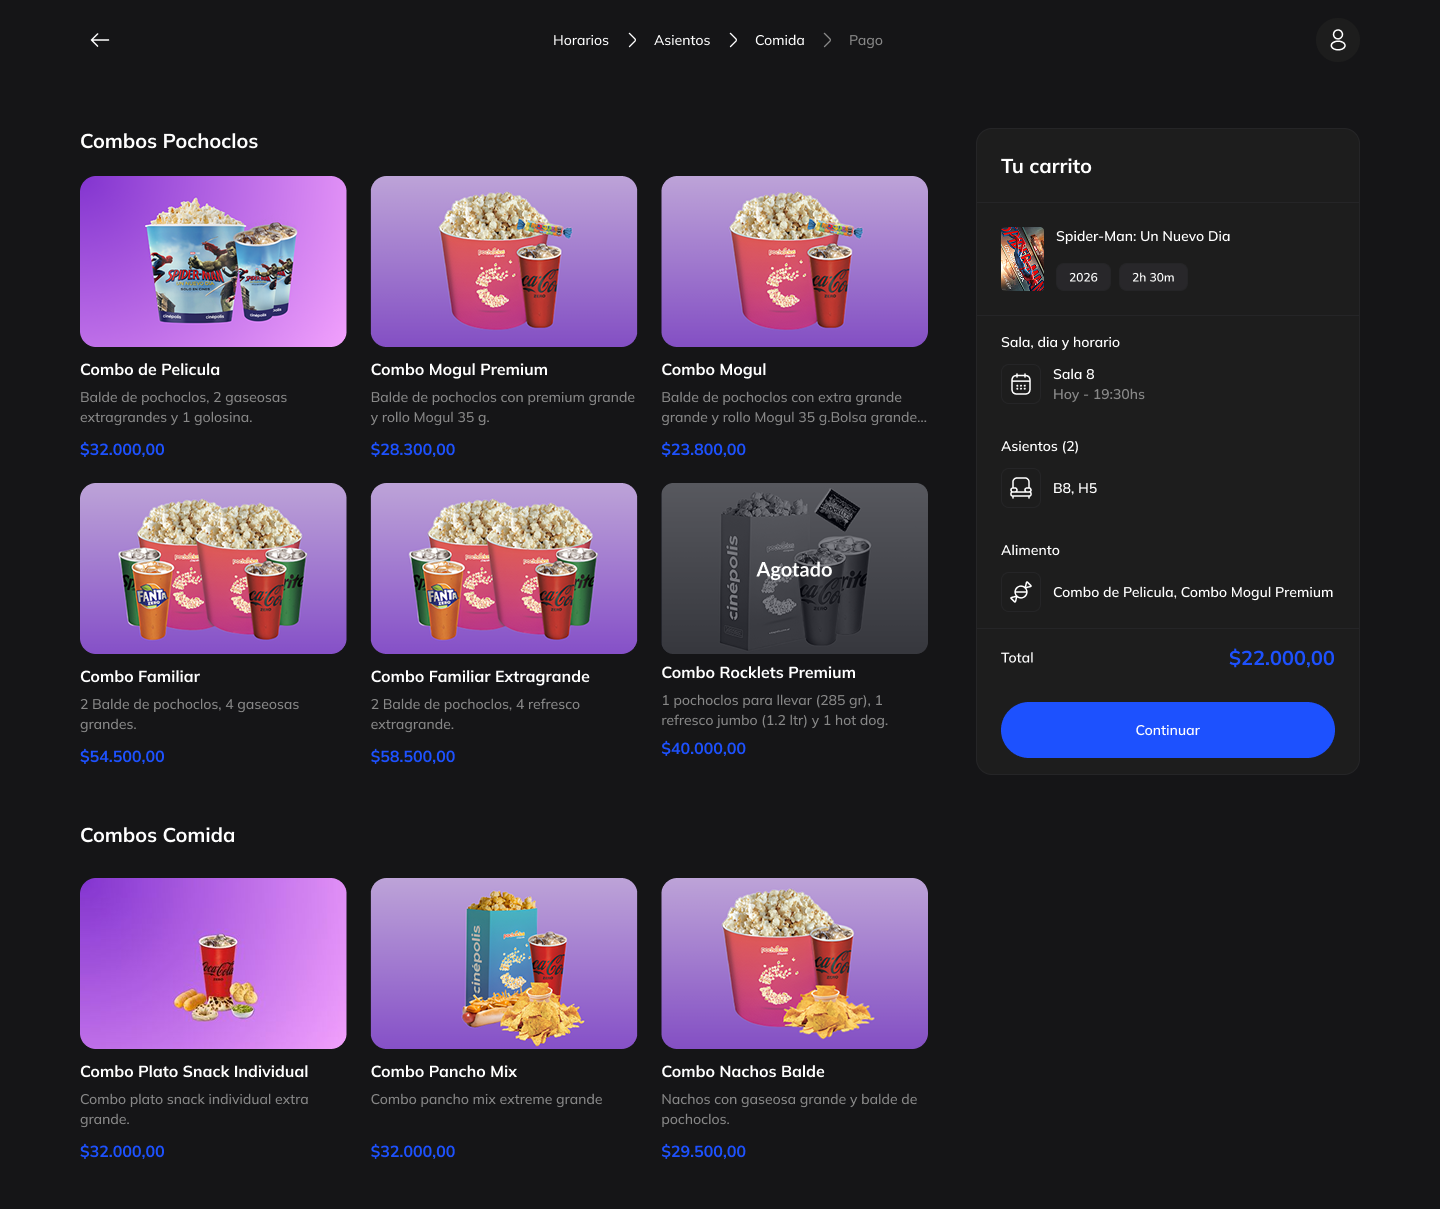
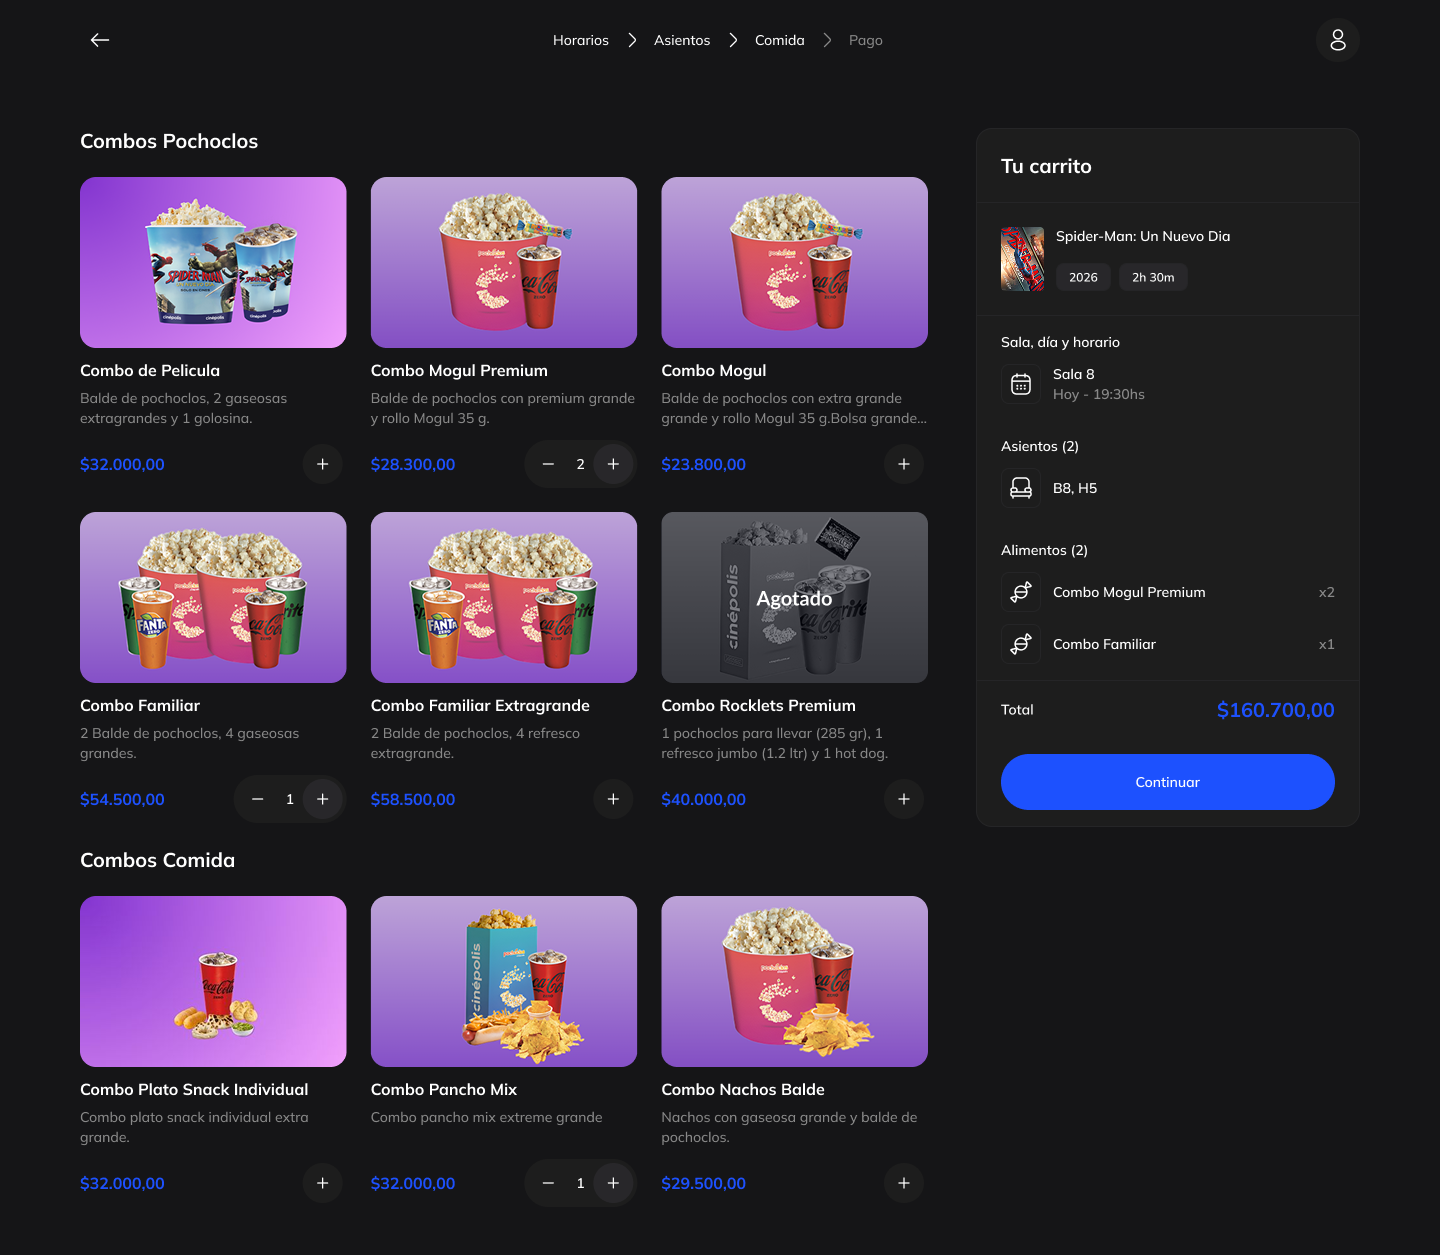
update `README.md`

diff --git a/README.md b/README.md
@@ -302,14 +302,18 @@ erDiagram
 
 <img src="./public/images/movie-detail.png" />
 
-### Elección de dia y horario
+### Selección de dia y horario
 
 <img src="./public/images/checkout-showtime.png" />
 
-### Elección de asientos
+### Selección de asientos
 
 <img src="./public/images/checkout-seats.png" />
 
-### Elección de comida
+### Selección de comida
 
 <img src="./public/images/checkout-food.png" />
+
+### Pago
+
+<img src="./public/images/checkout-pay.png" />
